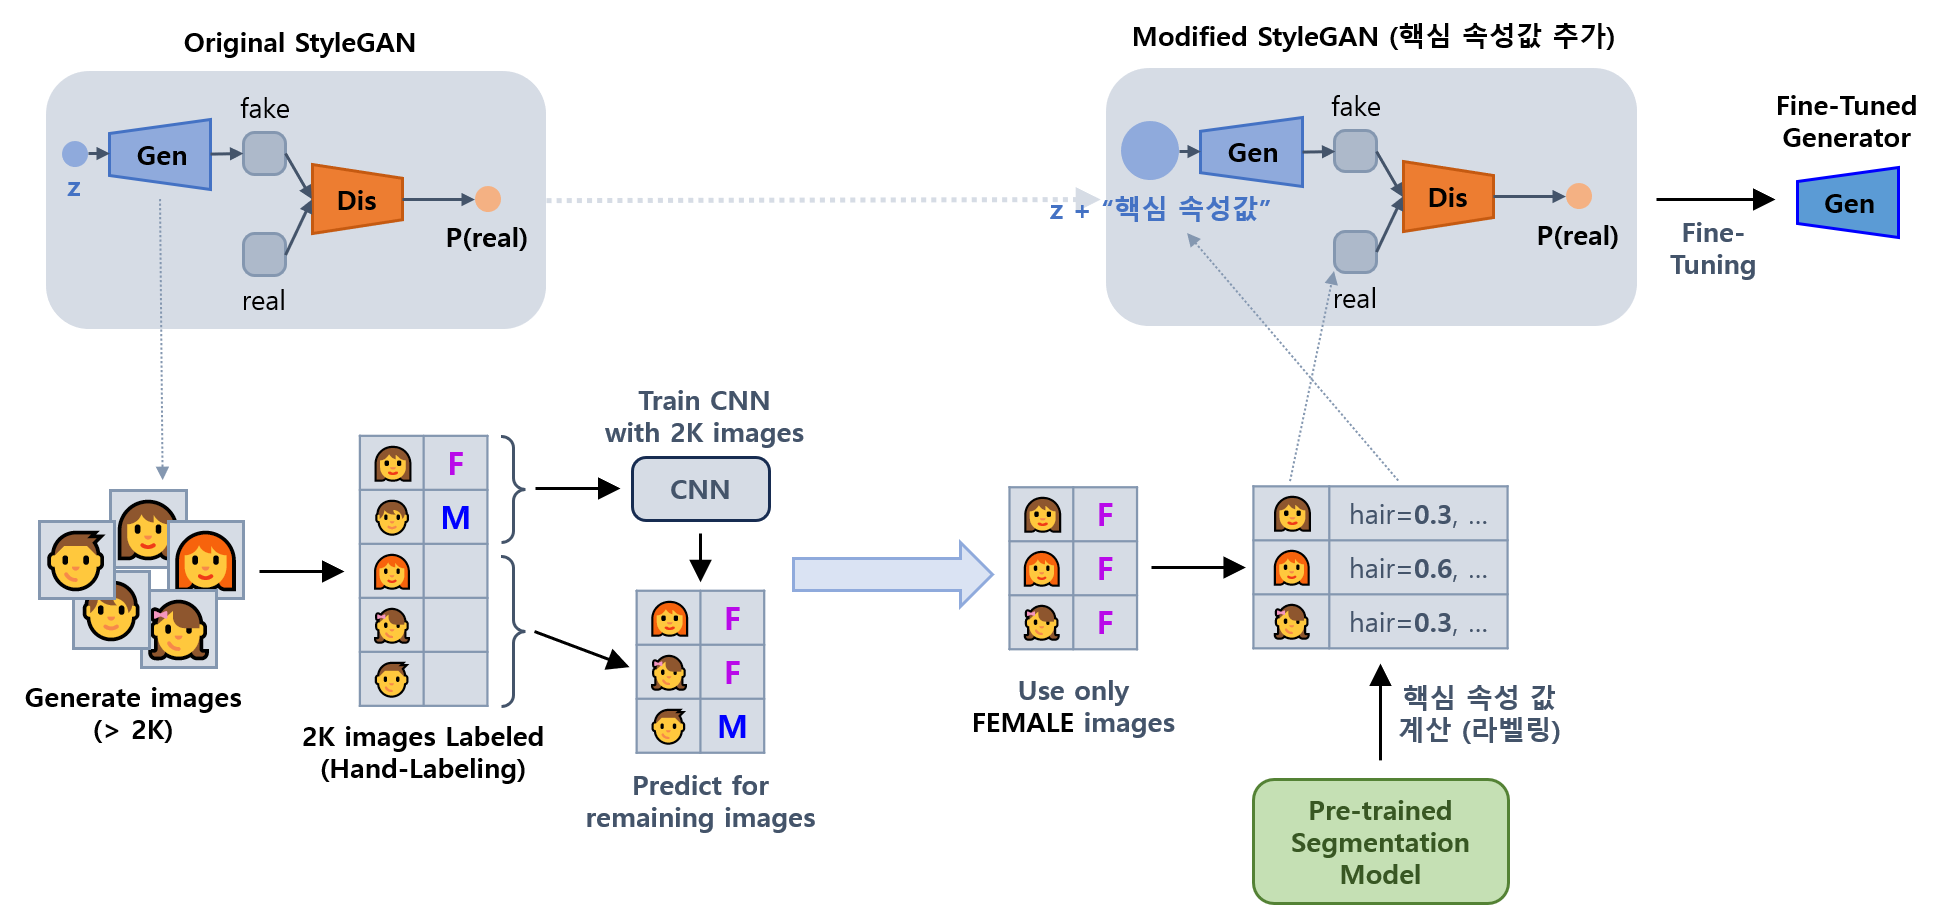
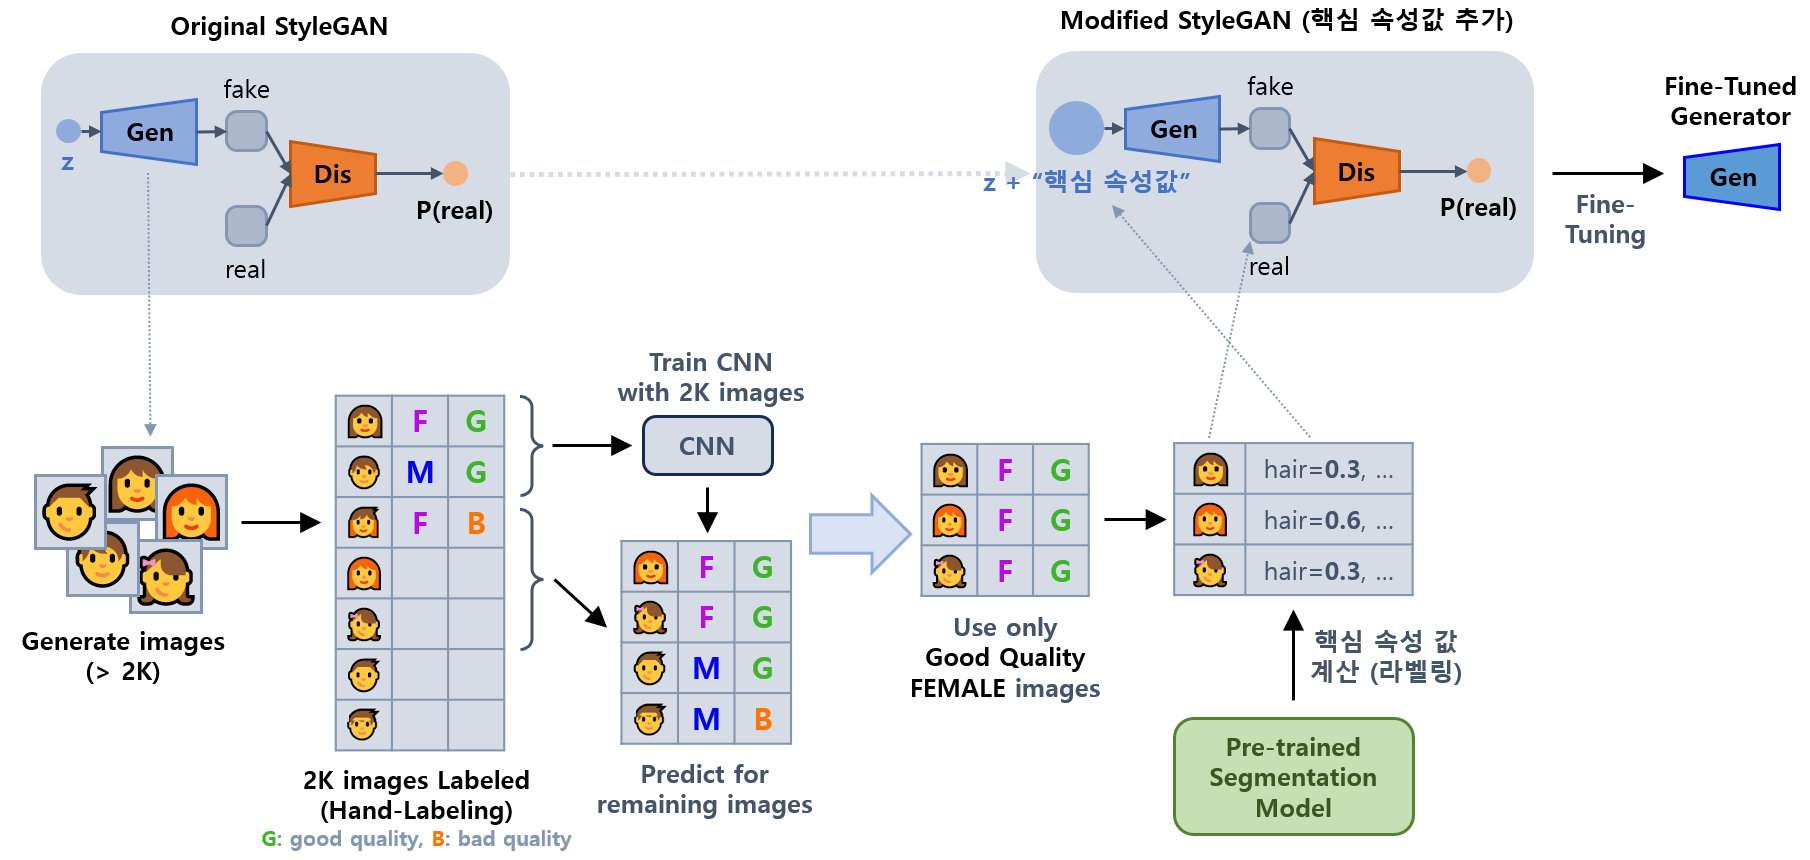
DOC: update plan

Changed region(s): [[0.0, 0.393, 0.8044, 0.9977], [0.526, 0.0, 1.0, 0.393], [0.0309, 0.0, 0.2785, 0.3628]]

diff --git a/2025_04_08_OhLoRA/README.md b/2025_04_08_OhLoRA/README.md
@@ -93,14 +93,15 @@
 | 논문 탐독 (StyleGAN)                 | 04.09 수 (1d)           |                                | ✅  |
 | 논문 탐독 (KTO)                      | 04.09 수 (1d)           |                                | ✅  |
 | Python 3.10 으로 업그레이드             | 04.09 수 (1d)           |                                | ✅  |
-| 기본 StyleGAN 구현                   | 04.09 - 04.10 목 (2d)   | ```P002-001-StyleGAN```        | 💨 |
-| Segmentation 모델 구현 (핵심 속성 값 추출용) | 04.10 목 - 04.11 금 (2d) | ```P002-002-Seg```             | ⬜  |
-| Segmentation 으로 핵심 속성 값 추출       | 04.11 금 (1d)           | ```P002-002-Seg```             | ⬜  |
-| 성별 속성 값 추출 (CNN 구현 포함)           | 04.11 금 (1d)           | ```P002-003-CNN```             | ⬜  |
+| 기본 StyleGAN 구현                   | 04.09 - 04.10 목 (2d)   | ```P002-001-StyleGAN```        | ✅  |
+| 이미지 품질 판단 (CNN 구현 포함)            | 04.10 목 (1d)           | ```P002-002-CNN```             | ⬜  |
+| 성별 속성 값 추출 (CNN 구현 포함)           | 04.10 목 (1d)           | ```P002-002-CNN```             | ⬜  |
+| Segmentation 모델 구현 (핵심 속성 값 추출용) | 04.10 목 - 04.11 금 (2d) | ```P002-003-Seg```             | ⬜  |
+| Segmentation 으로 핵심 속성 값 추출       | 04.11 금 (1d)           | ```P002-003-Seg```             | ⬜  |
 | 핵심 속성 값을 처리하도록 StyleGAN 구조 변경    | 04.12 토 (1d)           | ```P002-004-Update-StyleGAN``` | ⬜  |
 | Auto-Encoder 구현                  | 04.13 일 (1d)           | ```P002-005-AE```              | ⬜  |
 | k-NN 구현                          | 04.13 일 (1d)           | ```P002-006-kNN```             | ⬜  |
-| Unsloth 설치 시도                    | 04.14 월 (1d)           |                                | ⬜  |
+| Unsloth 실행 시도                    | 04.14 월 (1d)           |                                | ⬜  |
 | 적절한 한국어 LLM 모델 선택                | 04.14 월 (1d)           |                                | ⬜  |
 | SFT 학습 데이터셋 제작                   | 04.14 월 (1d)           | ```P002-007-SFT-Dataset```     | ⬜  |
 | SFT + LoRA 를 이용한 Fine-Tuning     | 04.14 월 - 04.15 화 (2d) | ```P002-008-SFT-LoRA```        | ⬜  |
